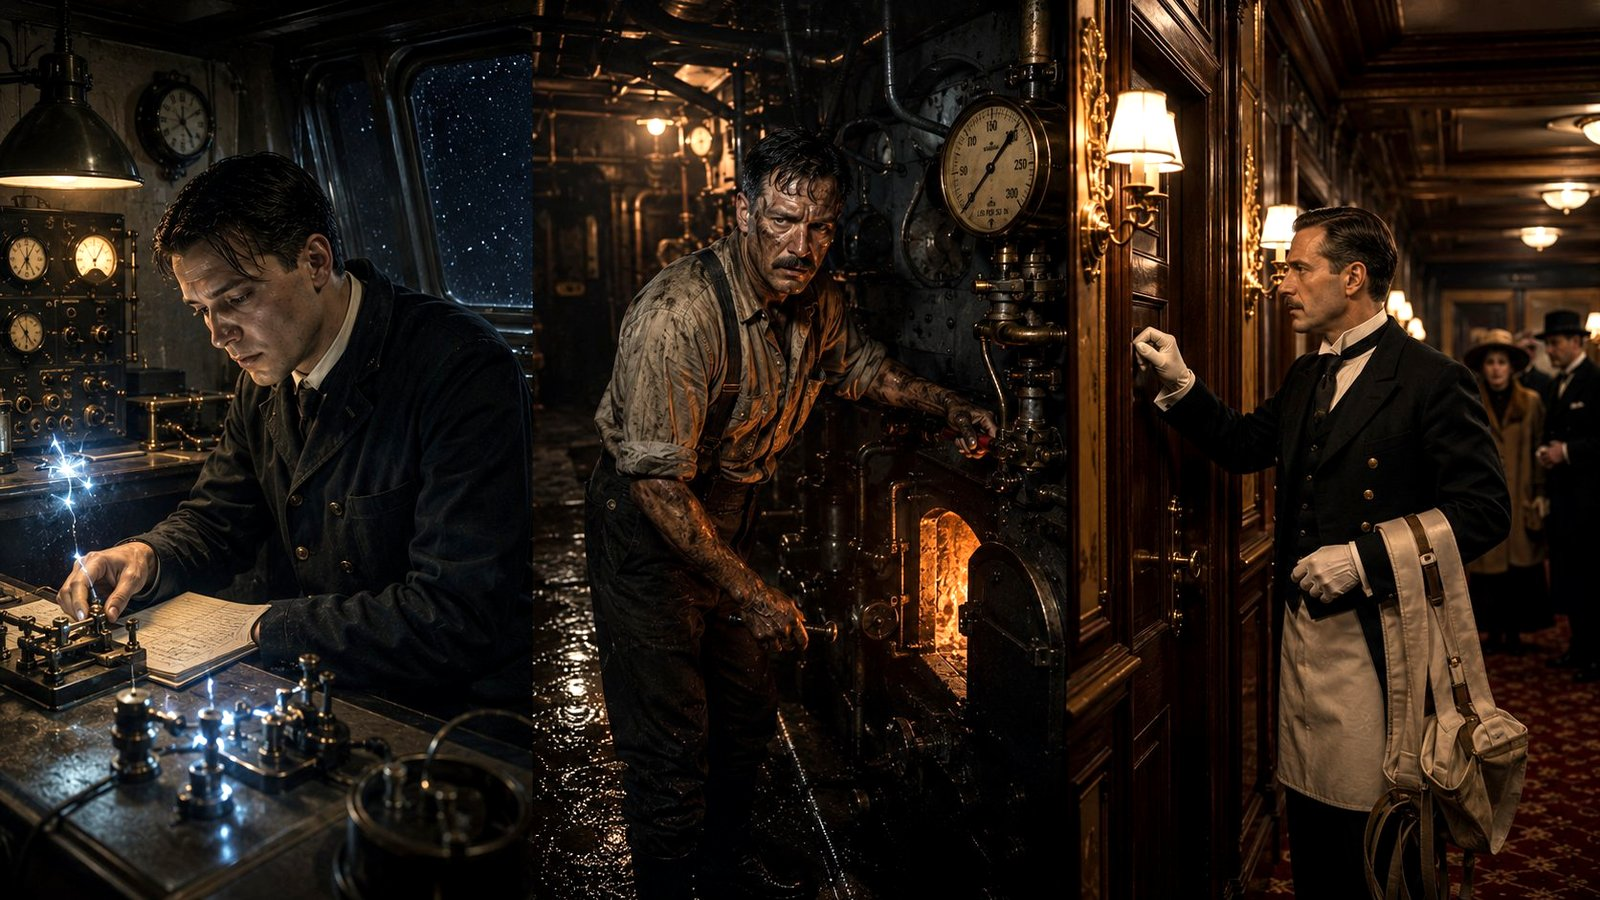
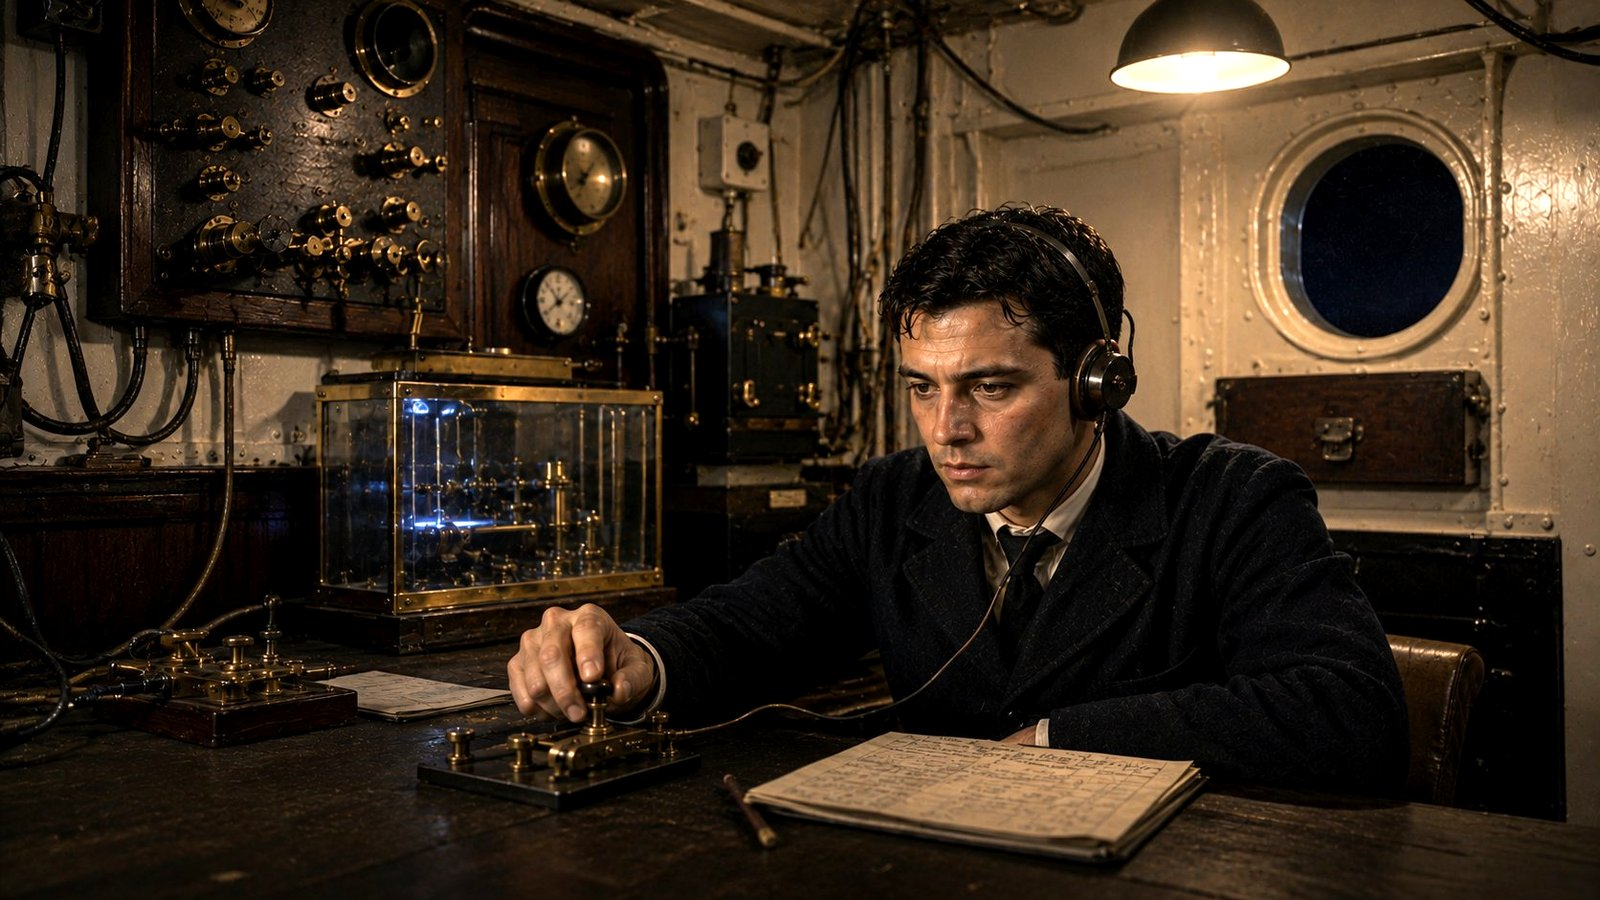
Add Titanic to featured cards and all-scenarios listing — images, CSS, card HTML, LOCAL_IMAGES

diff --git a/public/index.html b/public/index.html
@@ -99,6 +99,7 @@ body::after{content:'';position:fixed;inset:0;pointer-events:none;z-index:9000;o
 .bg-img-greensboro{background-image:url('/images/scenarios/greensboro_four_wide.jpg');background-size:cover;background-position:30% center}
 .bg-img-sargasso{background-image:url('/images/scenarios/sargasso_deep_wide.jpg');background-size:cover;background-position:center}
 .bg-img-cantigny{background-image:url('/images/scenarios/zero_hour_cantigny_wide.jpg');background-size:cover;background-position:center}
+.bg-img-titanic{background-image:url('/images/scenarios/titanic_final_hours_wide.jpg');background-size:cover;background-position:center}
 .fc-ai-attr{font-size:10px;color:rgba(255,255,255,0.45);position:absolute;bottom:6px;left:8px;letter-spacing:0.03em;pointer-events:none;font-style:italic;z-index:2}
 .fc-inner{position:relative;z-index:1;height:100%;display:flex;flex-direction:column;justify-content:flex-end;padding:clamp(18px,2.5vw,28px);background:linear-gradient(to top,rgba(8,6,4,.92) 0%,rgba(8,6,4,.3) 55%,transparent 100%)}
 .fc-has-img .fc-inner{background:linear-gradient(to top,rgba(8,6,4,.55) 0%,rgba(8,6,4,.25) 55%,transparent 100%)}
@@ -323,6 +324,17 @@ footer{background:var(--wire);padding:clamp(24px,3.5vw,40px) var(--pad-x);displa
         <p class="fc-desc">The barrage has started but something is wrong. A cut wire, falsified tables, and a chain of command that has gone silent.</p>
         <p class="fc-cost">Cost tracked: command authority, unit cohesion, tactical margin</p>
         <div class="fc-meta"><span class="meta-pill">The Artillery Commander</span><span class="meta-pill">The Doughboy</span><span class="meta-pill">The Signaler</span></div>
+      </div>
+    </a>
+    <a href="#" onclick="location.href=BASE_URL+'/game?scenarioId=titanic_final_hours';return false" class="featured-card fc-live fc-has-img" id="fc-card-titanic">
+      <div class="fc-bg bg-sub bg-img-titanic" id="fc-titanic"></div>
+      <span class="fc-ai-attr">AI-generated illustration</span>
+      <div class="fc-inner">
+        <p class="fc-tag">Maritime &middot; April 14, 1912</p>
+        <h3 class="fc-title">Titanic: The Final Hours</h3>
+        <p class="fc-desc">11:40 PM. The iceberg has opened five compartments. The wireless room is the last place on the ship where someone can still change what happens next.</p>
+        <p class="fc-cost">Cost tracked: lifeboat capacity, time to flooding</p>
+        <div class="fc-meta"><span class="meta-pill">Senior Wireless Operator</span><span class="meta-pill">Second Engineer</span><span class="meta-pill">First Class Steward</span></div>
       </div>
     </a>
   </div>

diff --git a/public/js/scenario-card.js b/public/js/scenario-card.js
@@ -13,6 +13,7 @@ const LOCAL_IMAGES = {
   greensboro_four_the_color_line: '/images/scenarios/greensboro_four_short.jpg',
   sargasso_deep_three_keys:       '/images/scenarios/sargasso_deep_short.jpg',
   zero_hour_cantigny:             '/images/scenarios/zero_hour_cantigny_short.jpg',
+  titanic_final_hours:            '/images/scenarios/titanic_final_hours_short.jpg',
 };
 
 const LOCAL_IMG_POSITION = {